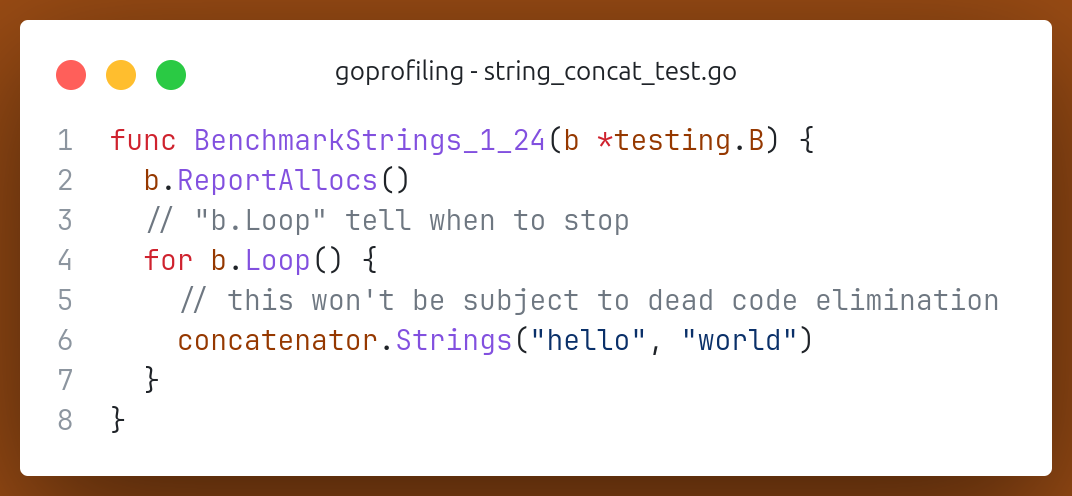
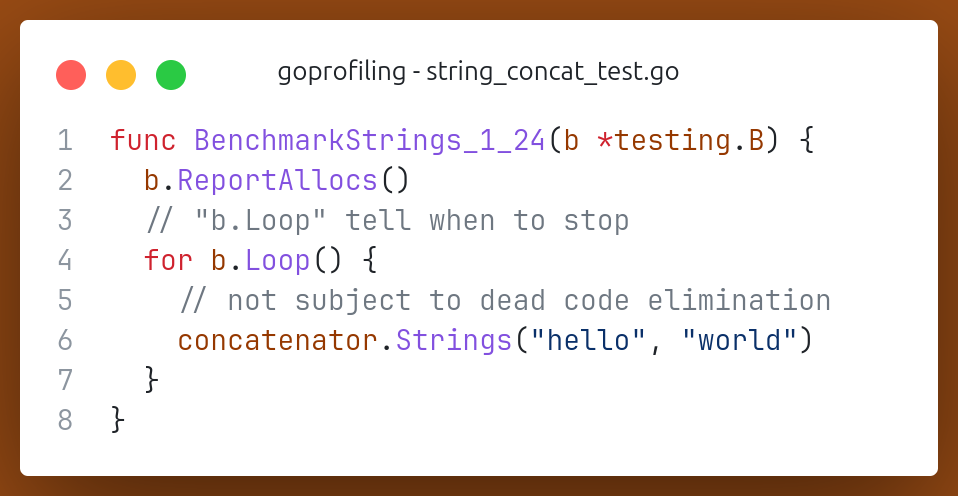
adjusted images

diff --git a/benchmarking/concatenator/string_concat_test.go b/benchmarking/concatenator/string_concat_test.go
@@ -11,7 +11,8 @@ var Result string // "try" avoiding compiler optimizations
 func BenchmarkStrings(b *testing.B) {
 	var s string
 	b.ReportAllocs()
-	b.ResetTimer() // you can reset timers/counters for heavy setup
+	// reset timers/counters for heavy setup
+	b.ResetTimer()
 	for i := 0; i < b.N; i++ {
 		s = concatenator.Strings("hello", "world")
 	}
@@ -22,7 +23,7 @@ func BenchmarkStrings_1_24(b *testing.B) {
 	b.ReportAllocs()
 	// "b.Loop" tell when to stop
 	for b.Loop() {
-		// this won't be subject to dead code elimination
+		// not subject to dead code elimination
 		concatenator.Strings("hello", "world")
 	}
 }

diff --git a/README.md b/README.md
@@ -1,3 +1,5 @@
 # Become a 10x Developer with Go Performance Optimization
 
 Sample repo to hold code for the session.
+
+[Slides](https://docs.google.com/presentation/d/e/2PACX-1vTWEsuikOaw5YDOxXAHySCrYya2xyZuVnyAoY3nj_IENC-F5ybMGLYEqMH0bteX0mPqqQmug_ysw_iI/pub?start=false&loop=false&delayms=3000)
